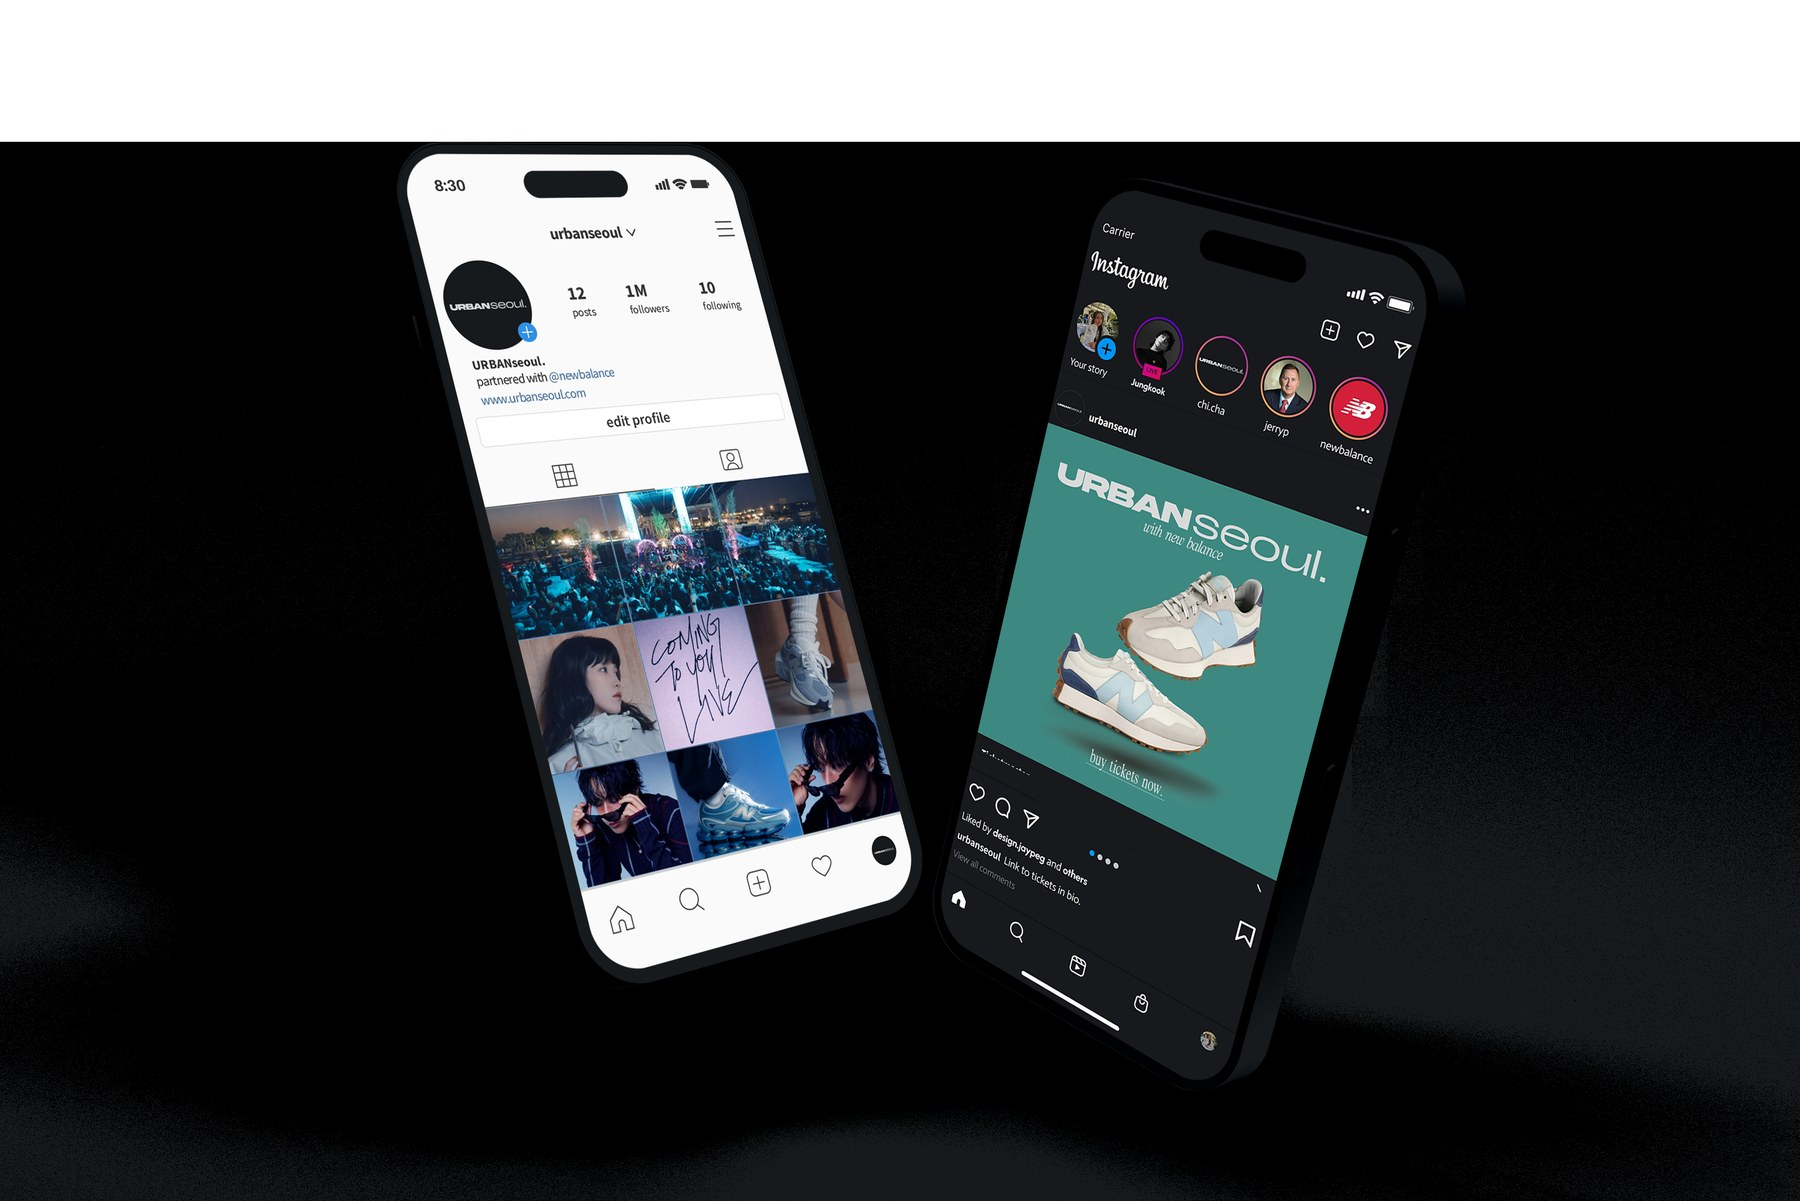
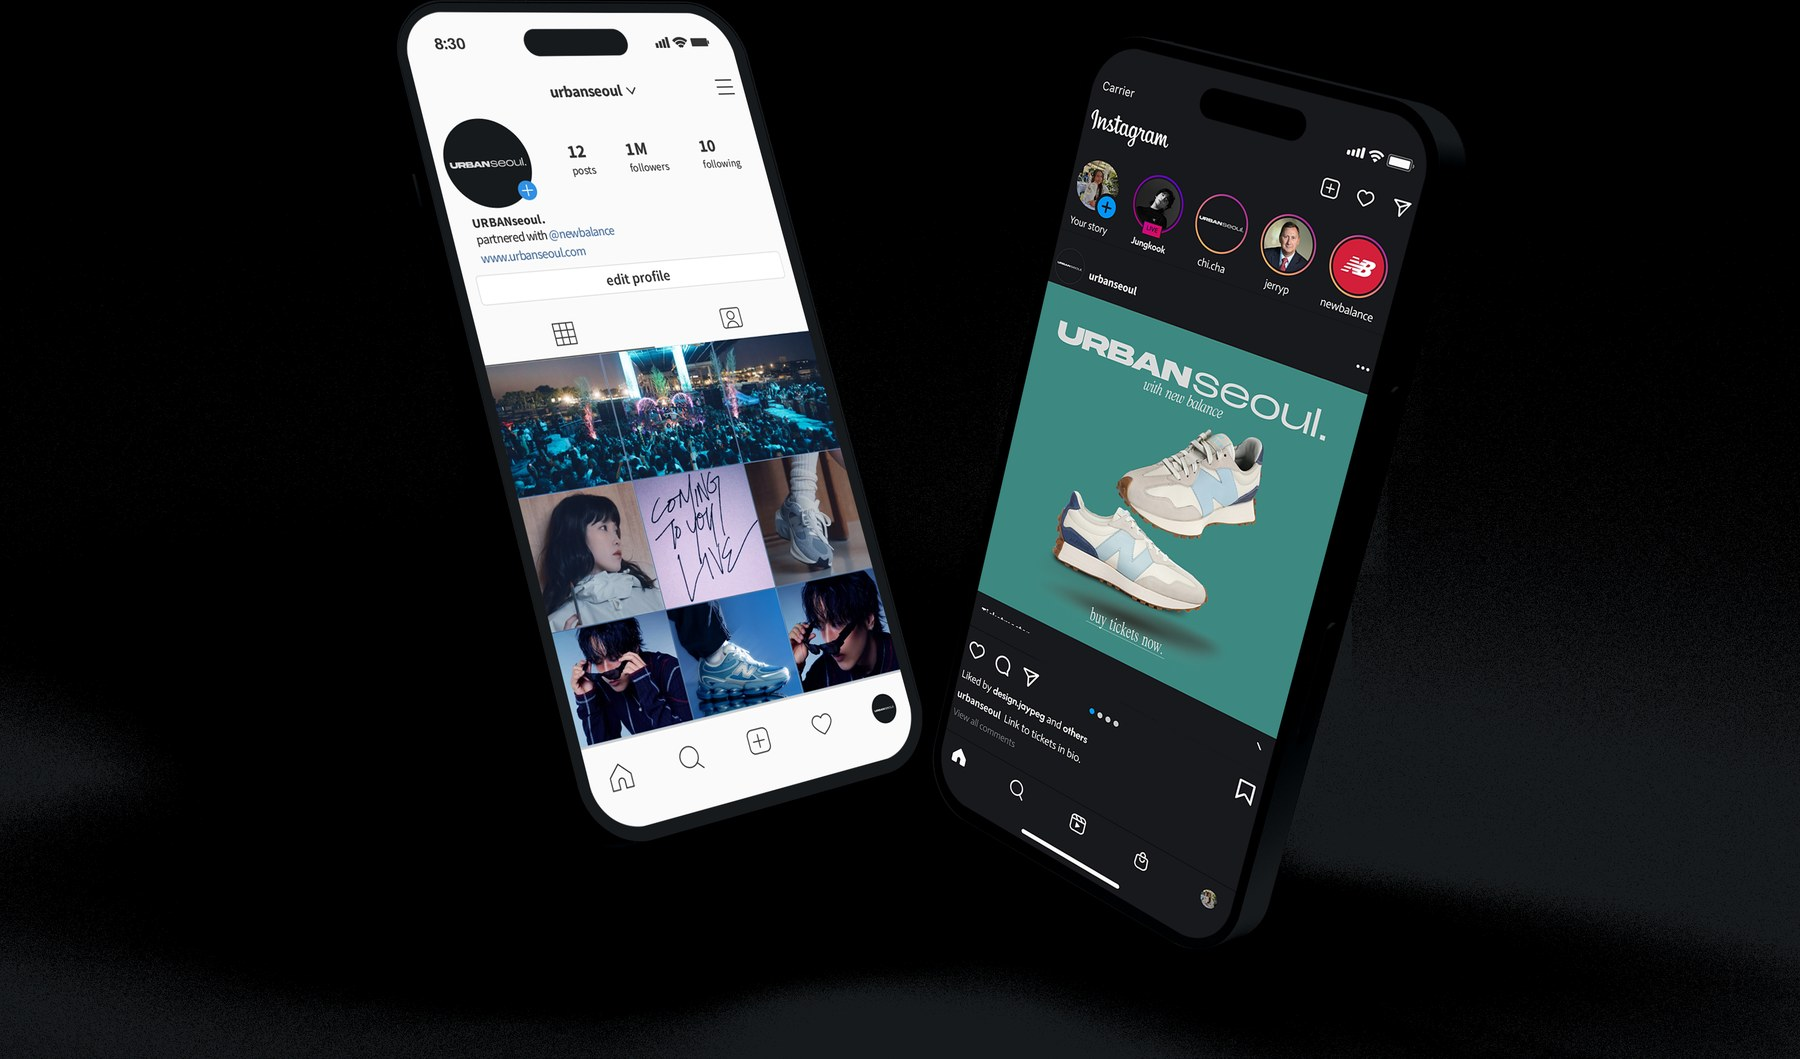
urbanseoul.: fix hero crop, cutout halos, merch sizing, double phone frame
- Hero: bias the crop to the top so the poster's own wordmark stays in
  frame instead of getting cropped out by the center crop.
- Drop the intro crowd photo entirely (the wordmark motif already
  covers that moment lower on the page).
- Swap the Ideation photo for the Under the K venue/crowd shot.
- Social & Signage: the two new Stories/feed mockups had a stray white
  header band baked into the source files -- crop it off, and size
  the pair bigger via row-match-height instead of the padded two-up
  grid, so they read as a matched, enlarged row.
- Merch: decontaminate the color-spill fringe left around the vintage
  flatlay and both totes by the background-removal pass (previously
  just a rembg cutout, now unmixed against the known backdrop color
  before adding the ground shadow) -- removes the halo around their
  edges. Crop DPR Live's photo to match IU/BIBI's own portrait ratio
  and switch the three lookbook shots to `trio` so all three render
  at an identical size. Enlarge both totes via row-match-height.
- Mobile Prototype: replace the PhoneMockup-style notch/bezel wrapper
  around the Figma embed with a plain bordered frame -- the prototype
  itself already renders as a phone, so the extra chrome read as a
  phone nested inside a phone.

Changed region(s): [[0.0, 0.0, 1.0, 0.9037]]

diff --git a/src/data/projectDetails.ts b/src/data/projectDetails.ts
@@ -74,9 +74,8 @@ import fetchTruckSide from '../assets/images/projects/detail/fetch-doggy-deli/tr
 import fetchSocialOrganic from '../assets/images/projects/detail/fetch-doggy-deli/social-organic.png'
 import fetchSocialPaid from '../assets/images/projects/detail/fetch-doggy-deli/social-paid.png'
 
-import usIntroCrowd from '../assets/images/projects/detail/urban-seoul/intro-crowd.jpg'
 import usLogoWordmark from '../assets/images/projects/detail/urban-seoul/logo-wordmark.png'
-import usIdeationPhoto from '../assets/images/projects/detail/urban-seoul/ideation-campaign-photo.jpg'
+import usIdeationPhoto from '../assets/images/projects/detail/urban-seoul/ideation-venue-crowd.jpg'
 import usPosterCyanotype from '../assets/images/projects/detail/urban-seoul/poster-cyanotype.jpg'
 import usPosterCalendar from '../assets/images/projects/detail/urban-seoul/poster-calendar.jpg'
 import usTeaserBusStop from '../assets/images/projects/detail/urban-seoul/teaser-poster-busstop.jpg'
@@ -1121,15 +1120,14 @@ export const PROJECT_DETAILS: Record<string, ProjectDetailData> = {
     heroLead: 'A cohesive festival identity for',
     heroBold: 'urbanseoul.',
     heroTagline: ', an immersive Korean R&B music festival presented by New Balance.',
+    // The Cyanotype poster's own wordmark sits in its top ~11% -- the
+    // default center crop (cropping evenly off both the top and
+    // bottom of a portrait image to fill the hero's landscape box)
+    // cut that off entirely. Biasing to the top keeps it in frame.
+    heroImagePosition: 'top',
     tags: ['Branding', 'Campaign', 'Signage', 'Merchandise'],
     intro:
       'urbanseoul. brings KRNB to Under the K Bridge Park in Brooklyn, turning a raw, industrial setting into a lifestyle hub where fans experience intimate live performances while celebrating sneaker and streetwear culture — built on New Balance’s heritage of authenticity and performance, paired with KRNB’s sleek, late-night mood.',
-    introImage: {
-      src: usIntroCrowd,
-      alt: 'A packed crowd at urbanseoul. under the Under the K Bridge Park overpass',
-      width: 1535,
-      height: 1024,
-    },
     chapters: [
       {
         layout: 'full-width',
@@ -1151,9 +1149,9 @@ export const PROJECT_DETAILS: Record<string, ProjectDetailData> = {
         images: [
           {
             src: usIdeationPhoto,
-            alt: 'A campaign photo of a KRNB artist wearing an urbanseoul. tank top',
-            width: 2000,
-            height: 1389,
+            alt: 'The crowd at Under the K Bridge Park, lit for a live set',
+            width: 1200,
+            height: 800,
           },
         ],
       },
@@ -1202,19 +1200,19 @@ export const PROJECT_DETAILS: Record<string, ProjectDetailData> = {
       },
       {
         label: 'Social & Signage',
-        layout: 'two-up',
+        layout: 'row-match-height',
         images: [
           {
             src: usSocialStories,
             alt: 'urbanseoul. Instagram Stories: a New Balance 574 drop and a ticket announcement',
             width: 1800,
-            height: 1201,
+            height: 1059,
           },
           {
             src: usSocialFeedPaid,
             alt: 'The urbanseoul. Instagram profile grid next to a paid New Balance feed ad',
             width: 1800,
-            height: 1201,
+            height: 1059,
           },
         ],
         moreImages: [
@@ -1261,29 +1259,26 @@ export const PROJECT_DETAILS: Record<string, ProjectDetailData> = {
           'The urbanseoul. merch merges 1990s athletic heritage with Y2K cyber-grunge, turning the festival’s poster graphics into wearable streetwear in off-white, charcoal, forest teal, deep navy, slate blue, and metallic silver. The lookbook features the festival’s headliners wearing the pieces: DPR Live in the teal hoodie and embroidered cap, IU in the navy and white color-blocked windbreaker, and BIBI in the white tank with chrome embossed lettering. Seeing the performers in the designs builds cultural credibility and invites fans to style the same looks. The vintage-inspired line adds a cream track jacket with asymmetrical paneling, a black hoodie stamped with a chrome star, and an off-white graphic tee.',
           'The accessories carry the posters’ mixed-media textures into everyday festival keepsakes. A crisp white tote features a glossy liquid-chrome “COMING TO YOU LIVE,” while a grey tote pairs a distressed blue halftone logo with a sketchy star. Three faux-leather strap keychains bring the print graphics into hardware: a black strap with halftone gradients and blurred “SEOUL” type, a slate-blue strap with clean white branding, and a distressed off-white strap with the “COMING TO YOU LIVE” badge and ink smudges from the calendar poster.',
         ],
-        layout: 'cluster',
+        layout: 'trio',
         imagesOnCard: false,
         images: [
           {
             src: usMerchModelDprlive,
             alt: 'DPR Live wearing the urbanseoul. teal hoodie and embroidered cap',
-            width: 1254,
+            width: 836,
             height: 1254,
-            size: 'lg',
           },
           {
             src: usMerchModelIu,
             alt: 'IU wearing the urbanseoul. navy and white color-blocked windbreaker',
             width: 1024,
             height: 1536,
-            size: 'md',
           },
           {
             src: usMerchModelBibi,
             alt: 'BIBI wearing the urbanseoul. white tank with chrome embossed lettering',
             width: 1024,
             height: 1536,
-            size: 'md',
           },
         ],
         moreImages: [
@@ -1299,7 +1294,7 @@ export const PROJECT_DETAILS: Record<string, ProjectDetailData> = {
             ],
           },
           {
-            layout: 'two-up',
+            layout: 'row-match-height',
             images: [
               {
                 src: usMerchToteWhiteCutout,

diff --git a/src/components/ProjectChapter.tsx b/src/components/ProjectChapter.tsx
@@ -199,22 +199,22 @@ export function ProjectChapter({ chapter, accent }: { chapter: ProjectChapterDat
       )}
       {chapter.figmaEmbed && (
         <div data-reveal className="mt-10 flex justify-center px-6 md:px-10">
-          <div className="w-[300px] shrink-0">
-            <div
-              className="relative overflow-hidden rounded-[2.75rem] border-[4px] border-cream/20 bg-ink shadow-xl shadow-black/40"
-              style={{ aspectRatio: '9 / 19.5' }}
-            >
-              <iframe
-                src={chapter.figmaEmbed.url}
-                title={chapter.figmaEmbed.title}
-                loading="lazy"
-                allowFullScreen
-                className="h-full w-full border-0"
-              />
-              <div className="pointer-events-none absolute inset-x-0 top-[10px] flex justify-center">
-                <div className="h-[9px] w-[72px] rounded-full bg-ink" />
-              </div>
-            </div>
+          {/* A plain bordered frame, not the PhoneMockup treatment --
+              the Figma prototype itself already renders as a phone
+              (its own device chrome is part of the design), so wrapping
+              it in a second phone-shaped frame read as a phone nested
+              inside a phone. */}
+          <div
+            className="w-full max-w-[420px] overflow-hidden rounded-xl border border-cream/20 bg-ink shadow-xl shadow-black/40"
+            style={{ aspectRatio: '9 / 17' }}
+          >
+            <iframe
+              src={chapter.figmaEmbed.url}
+              title={chapter.figmaEmbed.title}
+              loading="lazy"
+              allowFullScreen
+              className="h-full w-full border-0"
+            />
           </div>
         </div>
       )}
